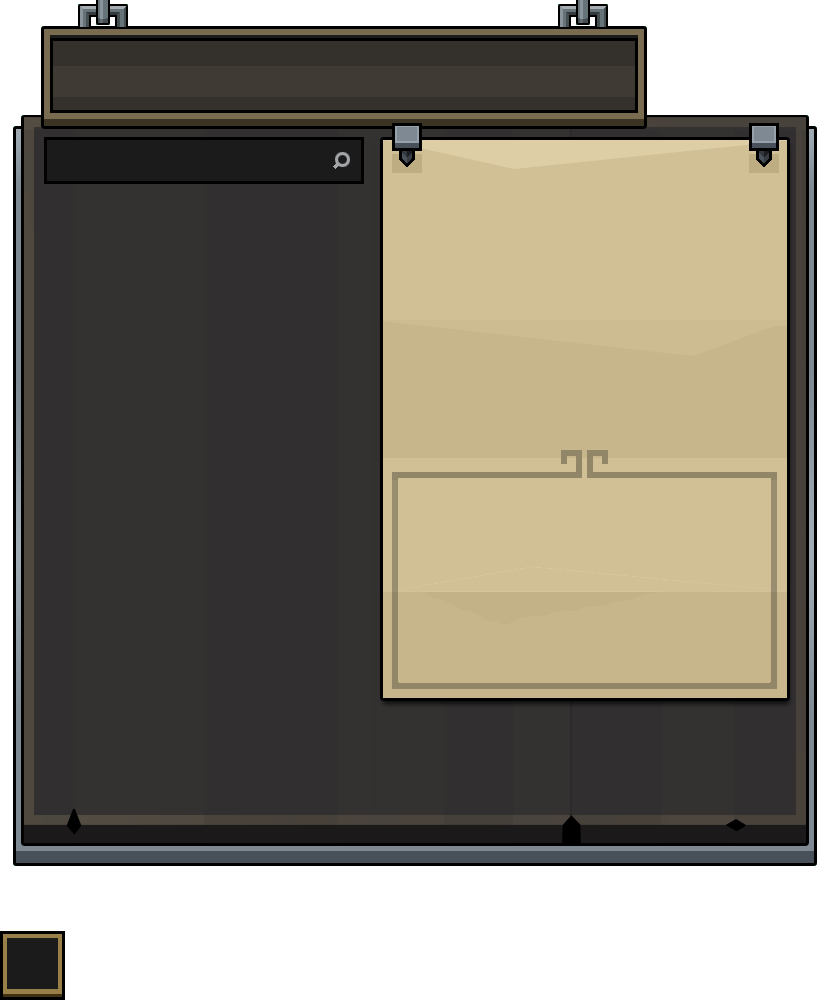
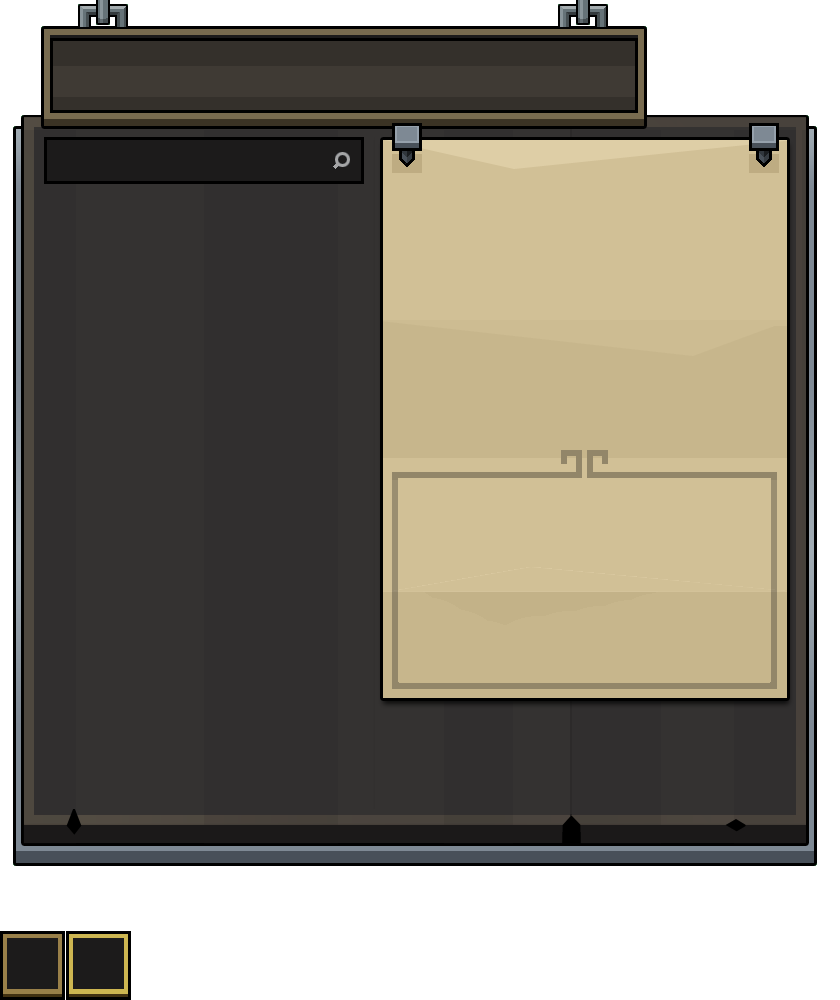
Add a hover graphic for the recipe buttons.

Changed region(s): [[0.0619, 0.93, 0.1548, 1.0]]

diff --git a/source/stonehearth_data/mods/stonehearth/ui/game/show_workshop/show_workshop.less b/source/stonehearth_data/mods/stonehearth/ui/game/show_workshop/show_workshop.less
@@ -156,6 +156,10 @@
             background-position: 0px -930px;
             display: flex;
 
+            &:hover {
+               background-position: -66px -930px;
+            }
+
             img {
                width: 46px;
                height: auto;
